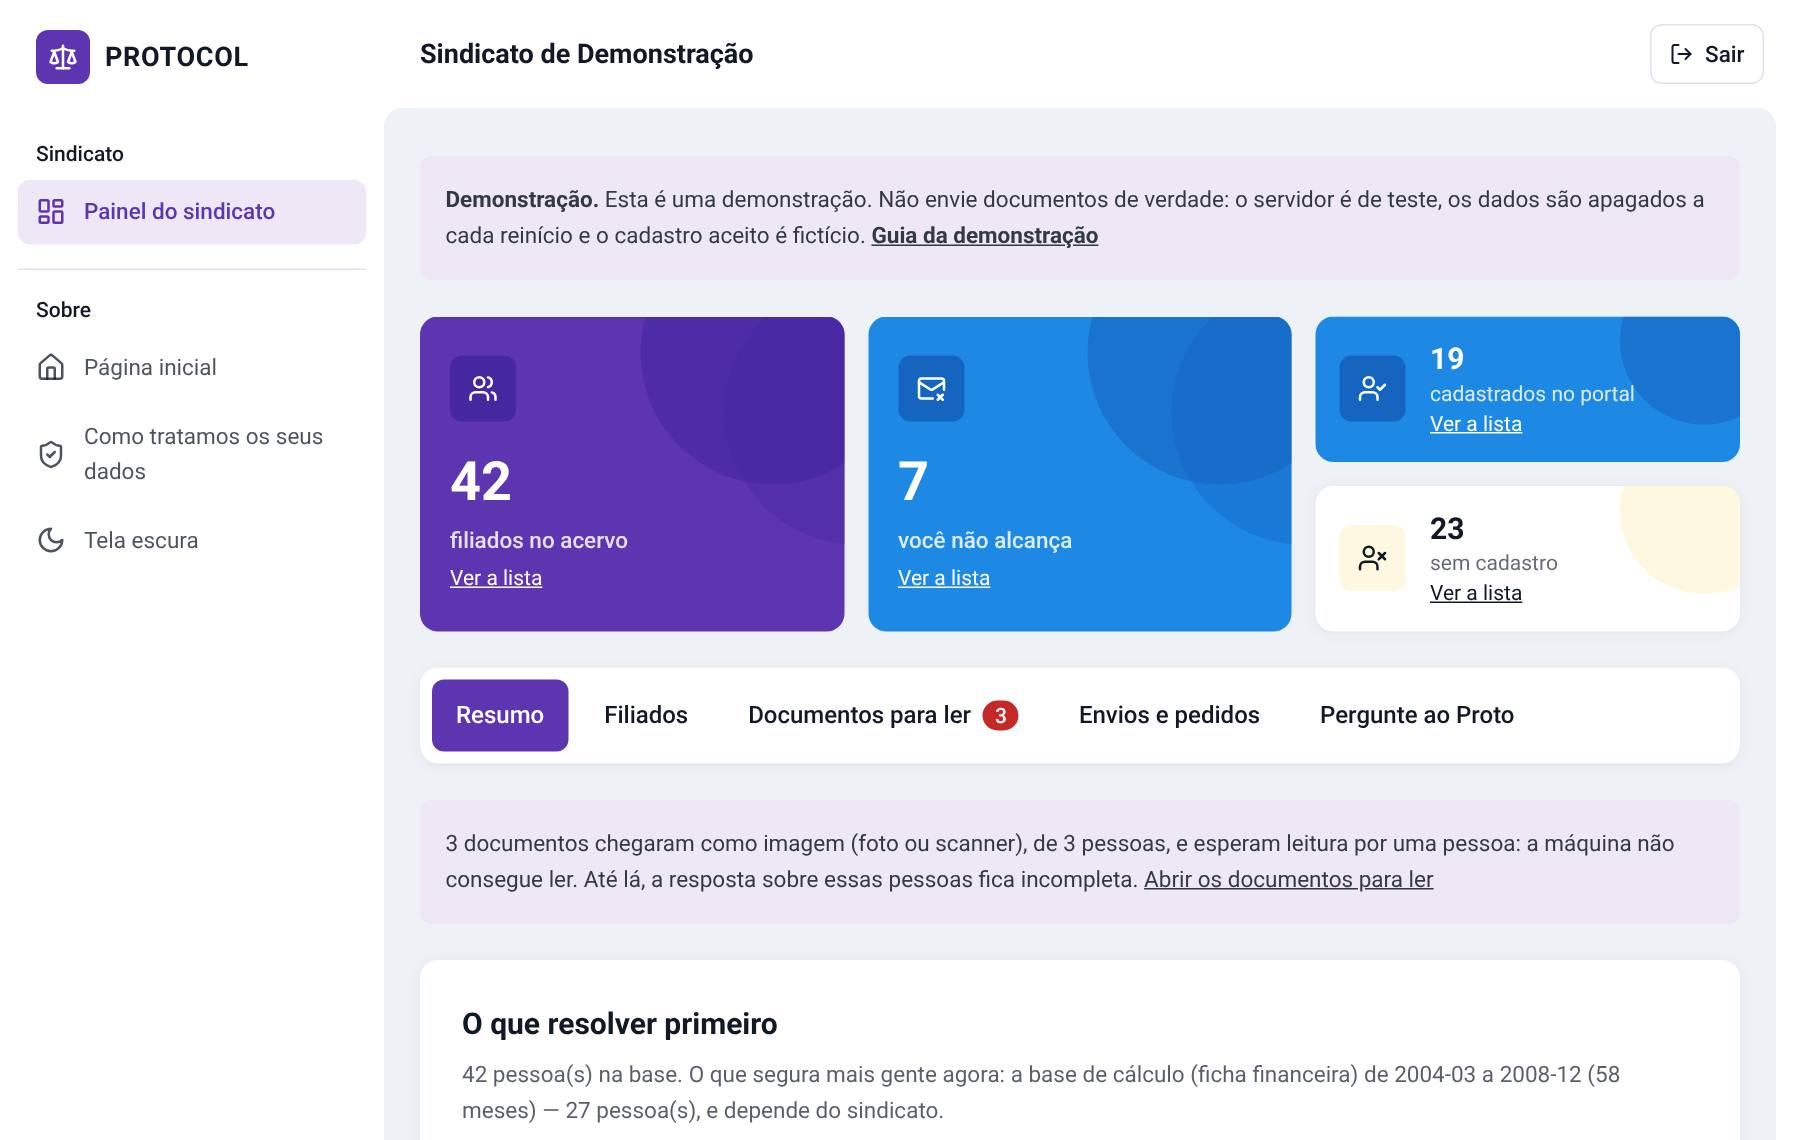
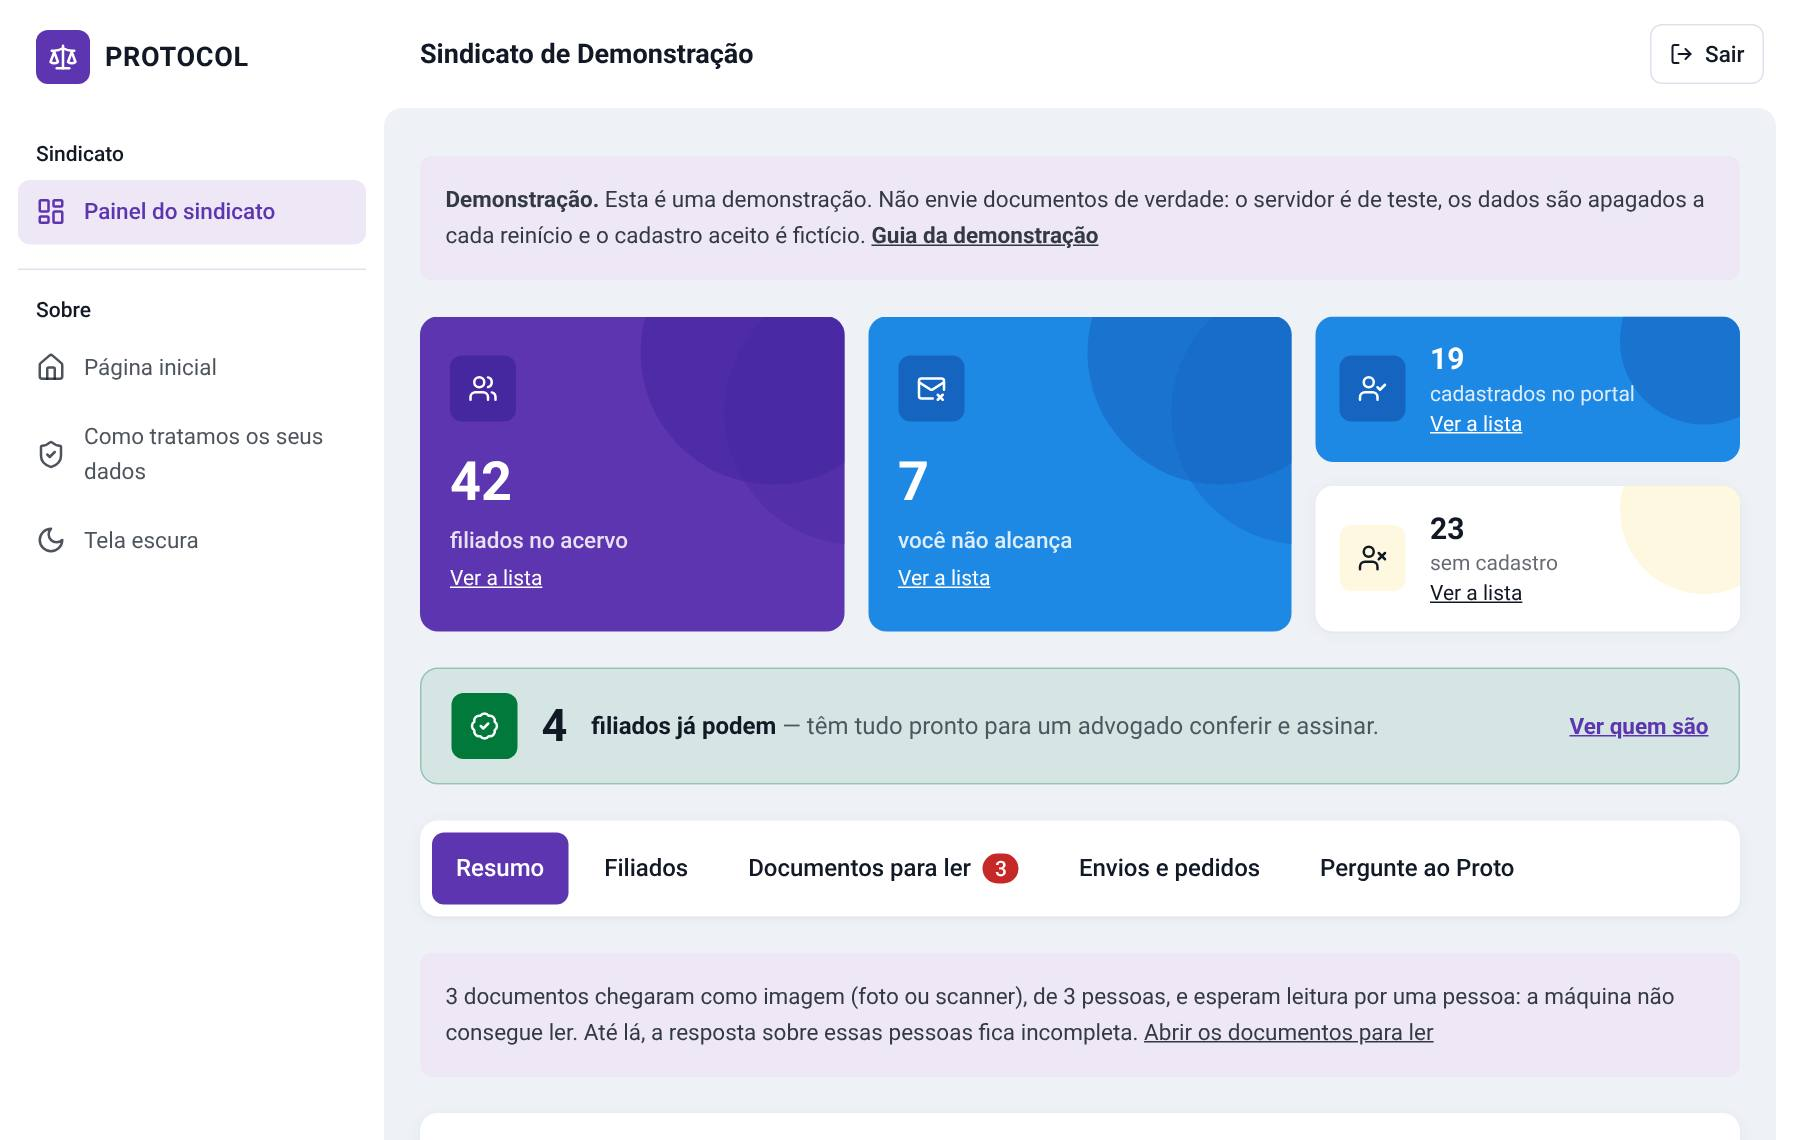
Quem já pode vai para o topo do painel; nomes e avisos da demonstração
- O painel abria com quatro números sobre o cadastro, e o resultado —
  quantos filiados já podem — ficava dentro da aba Filiados, atrás de
  um filtro. Agora é uma faixa logo abaixo dos quadros, que abre a
  lista dessas pessoas. Só aparece com o panorama carregado: zero antes
  da resposta seria afirmar que ninguém pode.
- Dois avisos de limite ("apurado a partir do cadastro", "isto não é
  parecer") eram vermelhos e liam como erro. O texto é o mesmo, em tom
  neutro.
- Os filiados da demonstração deixam de ser "FILIADO DE EXEMPLO 05
  (FICTÍCIO)" e passam a ter primeiro nome: "HELENA DE EXEMPLO
  (FICTÍCIA)". O sobrenome e a marca continuam dizendo que é mentira.

Claude-Session: https://claude.ai/code/session_01QueXKARv6uNZyUYvVtoHBN

Changed region(s): [[0.2178, 0.5833, 0.9644, 0.7982], [0.2489, 0.8596, 0.9333, 0.9825]]

diff --git a/portal/src/paginas/Painel.tsx b/portal/src/paginas/Painel.tsx
@@ -28,7 +28,7 @@
  */
 import { useEffect, useState, type MouseEvent } from "react";
 
-import { MailX, UserCheck, UserX, Users } from "lucide-react";
+import { BadgeCheck, MailX, UserCheck, UserX, Users } from "lucide-react";
 
 import {
   Aviso,
@@ -241,7 +241,9 @@ function OQueResolverPrimeiro({ p }: { p: api.Panorama }) {
 
       {/* O limite vem do servidor e fica na tela. Um diretor que supõe que
           os documentos foram lidos confia numa coluna que ninguém conferiu. */}
-      <Aviso tom="alerta">{p.limite}</Aviso>
+      {/* NEUTRO: é um limite do que a tela afirma, não um erro. Em
+          vermelho, quem assistia achava que algo tinha quebrado. */}
+      <Aviso tom="neutro">{p.limite}</Aviso>
     </Cartao>
   );
 }
@@ -804,11 +806,17 @@ function NomePorNome({
   versao,
   portal,
   onPortal,
+  dono,
+  onDono,
 }: {
   entidade: string;
   token: string;
   /** Sobe quando a base muda (planilha gravada, leitura registrada). */
   versao: number;
+  /** A situação escolhida ("PODE", ou de quem depende). Mora no `Painel`
+   *  pela mesma razão do filtro do portal: o quadro "já podem" a escolhe. */
+  dono: string;
+  onDono: (d: string) => void;
   /** Quem entrou no portal / quem falta. Mora no `Painel` porque os quadros
    *  do topo também o escolhem. */
   portal: FiltroDoPortal;
@@ -816,7 +824,7 @@ function NomePorNome({
 }) {
   const [lista, setLista] = useState<api.PessoaNaLista[] | null>(null);
   const [texto, setTexto] = useState("");
-  const [dono, setDono] = useState("");
+  const setDono = onDono;
   const [erro, setErro] = useState("");
   const [baixando, setBaixando] = useState(false);
   const [mostrando, setMostrando] = useState(LINHAS_POR_VEZ);
@@ -1407,6 +1415,7 @@ export function Painel({
   const [versaoDaFila, setVersaoDaFila] = useState(0);
   const [aba, setAba] = useState<AbaDoPainel>("resumo");
   const [portal, setPortal] = useState<FiltroDoPortal>("");
+  const [dono, setDono] = useState("");
   // Quantos documentos a fila tem NA TELA: é o número do selo da aba.
   const [filaNaTela, setFilaNaTela] = useState(0);
   const [todosForaDeAlcance, setTodosForaDeAlcance] = useState(false);
@@ -1487,6 +1496,7 @@ export function Painel({
   function abrirQuadro(q: QuadroDoTopo) {
     const d = destinoDoQuadro(q);
     setPortal(d.portal);
+    setDono(d.dono);
     irPara(d.aba, d.ancora);
   }
   /** O atalho de uma pendência ("Enviar o rol") mora em outra aba. */
@@ -1538,6 +1548,34 @@ export function Painel({
           />
         </div>
       </div>
+
+      {/* QUEM JÁ PODE, À VISTA. Os quatro quadros acima são sobre o
+          cadastro; este é o resultado, e ficava dentro da aba Filiados,
+          atrás de um filtro. Só aparece com o panorama carregado: zero
+          antes da resposta chegar seria afirmar que ninguém pode. */}
+      {panorama ? (
+        <button
+          type="button"
+          onClick={() => abrirQuadro("podem")}
+          className="flex w-full flex-wrap items-center gap-x-4 gap-y-1 rounded-xl border border-bom/30 bg-bom/10 px-5 py-4 text-left hover:bg-bom/15"
+        >
+          <span className="flex h-11 w-11 shrink-0 items-center justify-center rounded-lg bg-bom text-white">
+            <BadgeCheck className="h-5 w-5" aria-hidden="true" />
+          </span>
+          <span className="text-3xl font-bold text-tinta">{panorama.aptos}</span>
+          <span className="min-w-0 flex-1 text-[16px] text-tinta">
+            <strong>
+              {panorama.aptos === 1 ? "filiado já pode" : "filiados já podem"}
+            </strong>{" "}
+            <span className="text-tinta/70">
+              {panorama.aptos
+                ? "— têm tudo pronto para um advogado conferir e assinar."
+                : "— veja abaixo o que resolver primeiro para isso mudar."}
+            </span>
+          </span>
+          <span className="text-[15px] font-semibold text-acento underline">Ver quem são</span>
+        </button>
+      ) : null}
 
       {/* AS ABAS. O painel era uma página só com dez telas de rolagem
           (medido), e o envio da base ficava no fim. As quatro continuam
@@ -1700,6 +1738,8 @@ export function Painel({
           versao={versaoDaFila}
           portal={portal}
           onPortal={setPortal}
+          dono={dono}
+          onDono={setDono}
         />
 
         {dados.inalcancaveis.length ? (

diff --git a/portal/src/lib/painel.test.ts b/portal/src/lib/painel.test.ts
@@ -584,11 +584,17 @@ describe("o painel em abas", () => {
     for (const a of ABAS_DO_PAINEL) expect(a.curto.length).toBeLessThanOrEqual(10);
   });
 
+  it("o quadro de quem já pode abre a lista dessas pessoas", () => {
+    // É o número que o sindicato quer ver primeiro, e ele abre em nomes
+    // como os outros: a aba Filiados com o filtro "Já pode" ligado.
+    expect(destinoDoQuadro("podem")).toEqual({ aba: "filiados", portal: "", dono: "PODE", ancora: "" });
+  });
+
   it("cada quadro do topo leva à lista que ele conta", () => {
-    expect(destinoDoQuadro("acervo")).toEqual({ aba: "filiados", portal: "", ancora: "" });
-    expect(destinoDoQuadro("cadastrados")).toEqual({ aba: "filiados", portal: "entrou", ancora: "" });
-    expect(destinoDoQuadro("sem_cadastro")).toEqual({ aba: "filiados", portal: "falta", ancora: "" });
-    expect(destinoDoQuadro("inalcancaveis")).toEqual({ aba: "filiados", portal: "", ancora: "nao-alcanca" });
+    expect(destinoDoQuadro("acervo")).toEqual({ aba: "filiados", portal: "", dono: "", ancora: "" });
+    expect(destinoDoQuadro("cadastrados")).toEqual({ aba: "filiados", portal: "entrou", dono: "", ancora: "" });
+    expect(destinoDoQuadro("sem_cadastro")).toEqual({ aba: "filiados", portal: "falta", dono: "", ancora: "" });
+    expect(destinoDoQuadro("inalcancaveis")).toEqual({ aba: "filiados", portal: "", dono: "", ancora: "nao-alcanca" });
   });
 
   it("o atalho de uma pendência diz em que aba ela se resolve", () => {

diff --git a/portal/src/lib/painel.ts b/portal/src/lib/painel.ts
@@ -649,18 +649,22 @@ export const PERGUNTAS_DO_GESTOR_AO_PROTO = [
 ];
 
 export type QuadroDoTopo =
-  | "acervo" | "inalcancaveis" | "cadastrados" | "sem_cadastro";
+  | "acervo" | "inalcancaveis" | "cadastrados" | "sem_cadastro" | "podem";
 
 /** Para onde leva cada quadro do topo: a LISTA do que ele conta. Número
  *  que não abre em nomes obriga o gestor a procurar por conta própria quem
- *  são aquelas pessoas. */
+ *  são aquelas pessoas.
+ *
+ *  `dono` é o filtro de situação da lista ("PODE", ou de quem depende). */
 export function destinoDoQuadro(
   q: QuadroDoTopo,
-): { aba: AbaDoPainel; portal: FiltroDoPortal; ancora: string } {
-  if (q === "cadastrados") return { aba: "filiados", portal: "entrou", ancora: "" };
-  if (q === "sem_cadastro") return { aba: "filiados", portal: "falta", ancora: "" };
-  if (q === "inalcancaveis") return { aba: "filiados", portal: "", ancora: "nao-alcanca" };
-  return { aba: "filiados", portal: "", ancora: "" };
+): { aba: AbaDoPainel; portal: FiltroDoPortal; dono: string; ancora: string } {
+  const lista = { aba: "filiados" as const, portal: "" as FiltroDoPortal, dono: "", ancora: "" };
+  if (q === "cadastrados") return { ...lista, portal: "entrou" };
+  if (q === "sem_cadastro") return { ...lista, portal: "falta" };
+  if (q === "inalcancaveis") return { ...lista, ancora: "nao-alcanca" };
+  if (q === "podem") return { ...lista, dono: "PODE" };
+  return lista;
 }
 
 

diff --git a/portal/src/lib/demonstracao.ts b/portal/src/lib/demonstracao.ts
@@ -77,8 +77,9 @@ export function roteiroDaDemonstracao(acessos: AcessoDaDemo[], apelido: string):
       botao: "Abrir o painel do sindicato",
       mostrar: [
         "Os quatro números do topo: quantos filiados há na base, com quantos o sindicato não consegue falar, quem já se cadastrou e quem ainda não.",
+        "A faixa verde: quantos filiados já podem. Toque em “Ver quem são”.",
         "“O que resolver primeiro”: o que está segurando mais gente, e de quem é a vez — do sindicato, do filiado ou do tribunal.",
-        "A aba Filiados: a lista nome por nome, com os contatos, que sai em planilha. Toque em “Já pode” para ver quem tem tudo pronto.",
+        "A aba Filiados: a lista nome por nome, com os contatos, que sai em planilha.",
         "A aba Documentos para ler: as fotos que a máquina não leu e esperam uma pessoa.",
         "A aba Pergunte ao Proto: toque em “Com quantos eu não consigo falar?”.",
       ],

diff --git a/portal/src/paginas/Landing.tsx b/portal/src/paginas/Landing.tsx
@@ -185,7 +185,7 @@ export function Landing({ onPrivacidade }: { onPrivacidade: () => void }) {
                   src={retratoDoPainel}
                   width={1800}
                   height={1140}
-                  alt="O painel do sindicato: quantos filiados há na base, com quantos o sindicato não consegue falar, quantos se cadastraram e o que resolver primeiro."
+                  alt="O painel do sindicato: quantos filiados há na base, com quantos o sindicato não consegue falar, quantos se cadastraram e quantos já podem."
                   className="w-full rounded-xl shadow-2xl ring-1 ring-white/20"
                 />
                 <figcaption className="mt-3 text-sm text-white/75">

diff --git a/portal/src/paginas/MinhasAcoes.tsx b/portal/src/paginas/MinhasAcoes.tsx
@@ -279,7 +279,8 @@ export function MinhasAcoes({
       >
         {/* O limite vem do servidor e aparece na tela, não no rodapé: a
             pessoa que lê "não é parecer" é a que não cria expectativa. */}
-        <Aviso tom="alerta">{dados.aviso}</Aviso>
+        {/* NEUTRO: é o limite do que a tela afirma, não um erro. */}
+        <Aviso tom="neutro">{dados.aviso}</Aviso>
         {dados.categorias.length > 0 ? (
           <p className="text-[14px] text-tinta/60">
             Categoria considerada: {dados.categorias.join(", ")}.

diff --git a/portal/src/lib/demonstracao.test.ts b/portal/src/lib/demonstracao.test.ts
@@ -80,7 +80,7 @@ describe("o roteiro da demonstração", () => {
     // A demonstração tem quem pode (uma ação declaradamente fictícia): o
     // roteiro tem de levar até lá, ou a melhor tela fica sem ser aberta.
     const r = roteiroDaDemonstracao(todos, "demo-x");
-    expect(r[0]?.mostrar.join(" ")).toContain("“Já pode”");
+    expect(r[0]?.mostrar.join(" ")).toContain("já podem");
     expect(r[1]?.mostrar.join(" ")).toContain("“Caminho aberto, já conferido”");
   });
 

diff --git a/ferramentas/demo.py b/ferramentas/demo.py
@@ -8,7 +8,7 @@ Sobe o servidor e o portal num endereço só (http://127.0.0.1:8080), com um
 sindicato de demonstração já preenchido, e imprime com que CPF entrar. Fica
 no ar até você apertar Ctrl+C; aí desliga tudo e apaga o que criou.
 
-TUDO É FICTÍCIO, e declaradamente: os nomes trazem "(FICTÍCIO)" escrito, os
+TUDO É FICTÍCIO, e declaradamente: os nomes trazem "DE EXEMPLO (FICTÍCIO)" escrito, os
 CPFs são montados a partir de um contador, os e-mails ficam num domínio que
 não existe, e nenhuma mensagem sai — o servidor roda em modo ensaio, em que
 o código de acesso aparece na tela. NÃO ponha dado de gente de verdade aqui.
@@ -55,6 +55,18 @@ CATALOGO = REPO / "implantacao" / "demo" / "categorias"
 CATEGORIA = "servidor-de-exemplo"
 CARGO = "Servidor de Exemplo"
 ACAO = "EXEMPLO-FICTICIA"
+#: SÓ O PRIMEIRO NOME É DE GENTE. O sobrenome de todos é "DE EXEMPLO", e a
+#: marca "(FICTÍCIA)" vai escrita: nome plausível, com CPF que fecha o
+#: dígito, numa página pública, passaria por pessoa real. Mulher e homem se
+#: alternam — a marca concorda pelo índice.
+NOMES = (
+    "MARIA", "JOSE", "ANA", "ANTONIO", "HELENA", "FRANCISCO", "LUCIA",
+    "CARLOS", "TEREZA", "PAULO", "VERA", "PEDRO", "ROSA", "LUIZ", "MARTA",
+    "MARCOS", "SONIA", "RAIMUNDO", "REGINA", "SEBASTIAO", "CELIA", "MANOEL",
+    "NEUSA", "JORGE", "IRENE", "ROBERTO", "ALICE", "SERGIO", "DALVA",
+    "GERALDO", "EDNA", "FERNANDO", "ZELIA", "EDSON", "NAIR", "JOAQUIM",
+    "ELZA", "BENEDITO", "IVONE", "WALTER", "OLGA", "NELSON",
+)
 GESTOR = 9001                   # índice do CPF sintético do gestor
 
 
@@ -292,8 +304,9 @@ def semear(api: str, url: str, raiz: pathlib.Path) -> list[tuple[str, str]]:
 
     gestor = te._cpf_sintetico(GESTOR)
     pessoas = [(te._cpf_sintetico(9100 + i),
-                f"FILIADO DE EXEMPLO {i + 1:02d} (FICTÍCIO)",
-                f"filiado{i + 1:02d}@{DOMINIO}") for i in range(42)]
+                f"{nome} DE EXEMPLO (FICTÍCI{'A' if i % 2 == 0 else 'O'})",
+                f"filiado{i + 1:02d}@{DOMINIO}")
+               for i, nome in enumerate(NOMES)]
     c = httpx.Client(base_url=api, timeout=120, trust_env=False)
 
     def token(cpf: str) -> str:

diff --git a/tests/testes_demo.py b/tests/testes_demo.py
@@ -183,8 +183,16 @@ def teste_a_demo_sobe_fictícia_e_desce_limpa():
             nomes = [n for (n,) in con.execute("SELECT nome FROM pessoa")]
         checa(len(nomes) >= 30, f"só {len(nomes)} pessoas no banco da demo")
         for nome in nomes:
-            checa("FICTÍCIO" in nome,
-                  f"nome sem rótulo de fictício: {nome!r}")
+            # NOME DE GENTE, E DECLARADAMENTE DE MENTIRA: o sobrenome é
+            # "DE EXEMPLO" e a marca vem escrita. "FILIADO DE EXEMPLO 05"
+            # era seguro e frio; um nome plausível sem a marca passaria por
+            # pessoa real numa página pública.
+            checa(re.search(r"^[A-ZÀ-Ú]+ DE EXEMPLO \(FICTÍCI[OA]\)$", nome)
+                  is not None,
+                  f"nome fora do formato fictício: {nome!r}")
+            checa(not nome.startswith("FILIADO"),
+                  f"nome que não é nome: {nome!r}")
+        checa(len(set(nomes)) == len(nomes), "há nome repetido na base")
 
         # BANCO QUE JÁ TEM TABELA: recusa, e não toca. (Agora ele tem.)
         r = subprocess.run(
